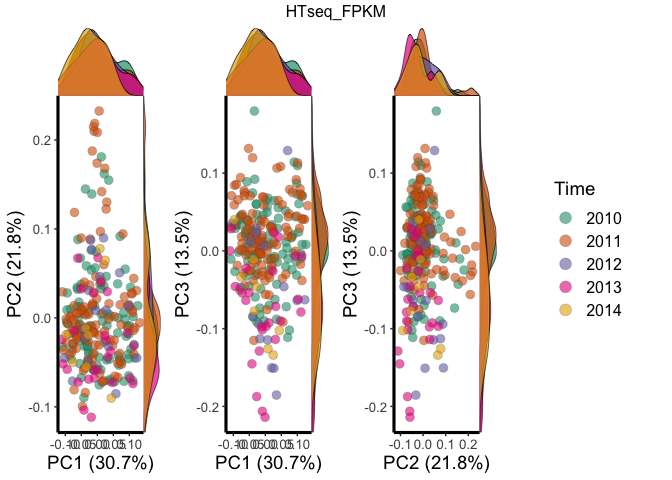
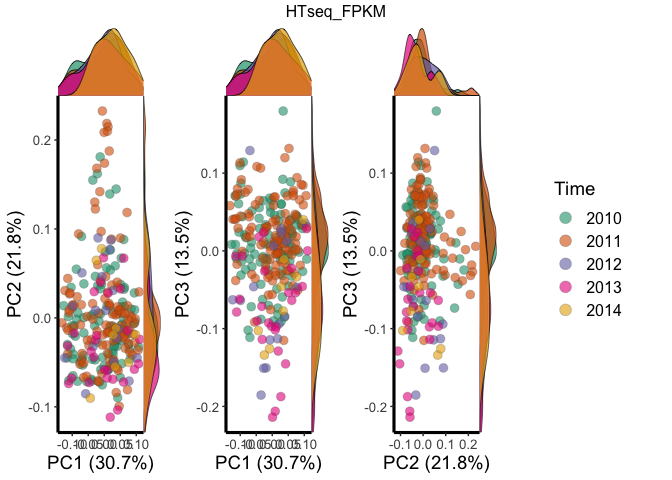
Updating base plots to ggplots. Adding Biology as a factor for correlation analysis plot with PCs. Fixing previous plot errors. Updating Readme.

diff --git a/README.md b/README.md
@@ -33,6 +33,16 @@ detailed information on the Data Wrangling and Data Analysis functions
 and arguments in `tgcapkg` package, you can consider looking at the
 vignette.
 
+At present, TCGA Pan Cancer Datasets supports Cancer Biology for only
+**four** Cancer types. These four cancer type (TCGA datasets) are
+*Breast Cancer (BRCA)*, *Lung Cancer (LUAD)*, *Colon Cancer (COAD)* and
+*Rectum Cancer (READ)*. This implies that *RUV-III analysis* can only be
+performed for these four cancer types. This is because the RUV-III
+approach here requires at least one roughly known biologically
+homogeneous subclass of samples shared across sources of unwanted
+variation. Similary, the vector correlation between Biology and PCs can
+only be viewed for these four Cancer types.
+
 ``` r
 library(tgcapkg)
 ```
